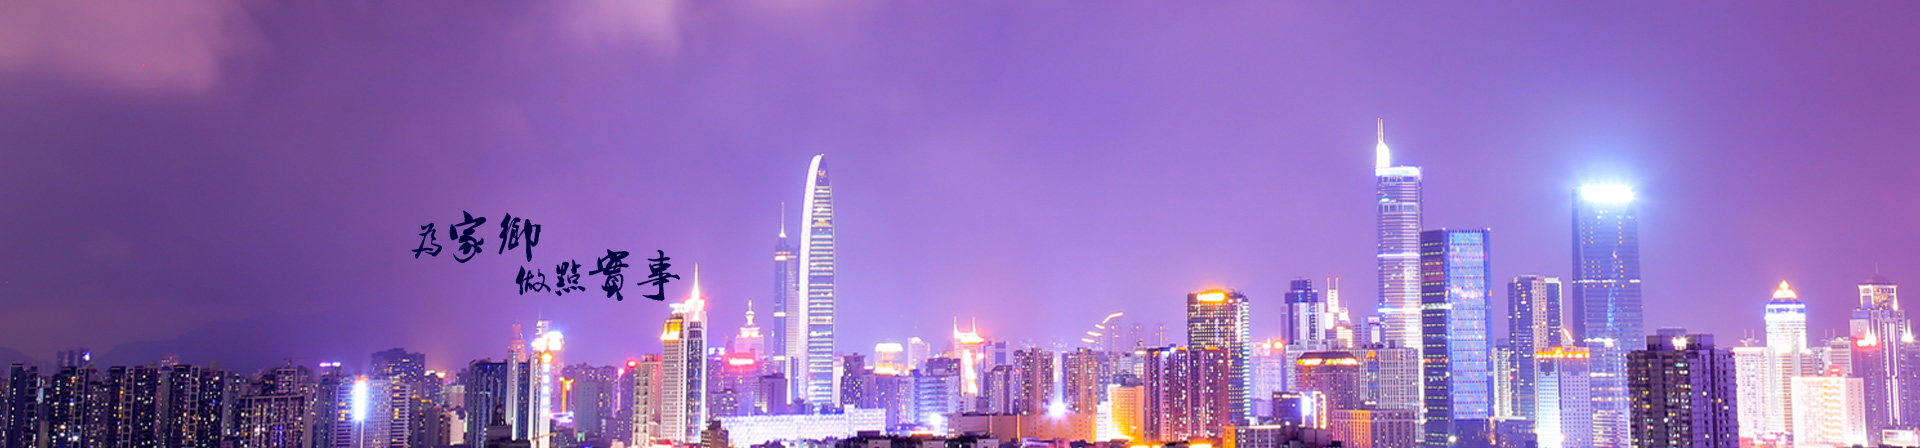
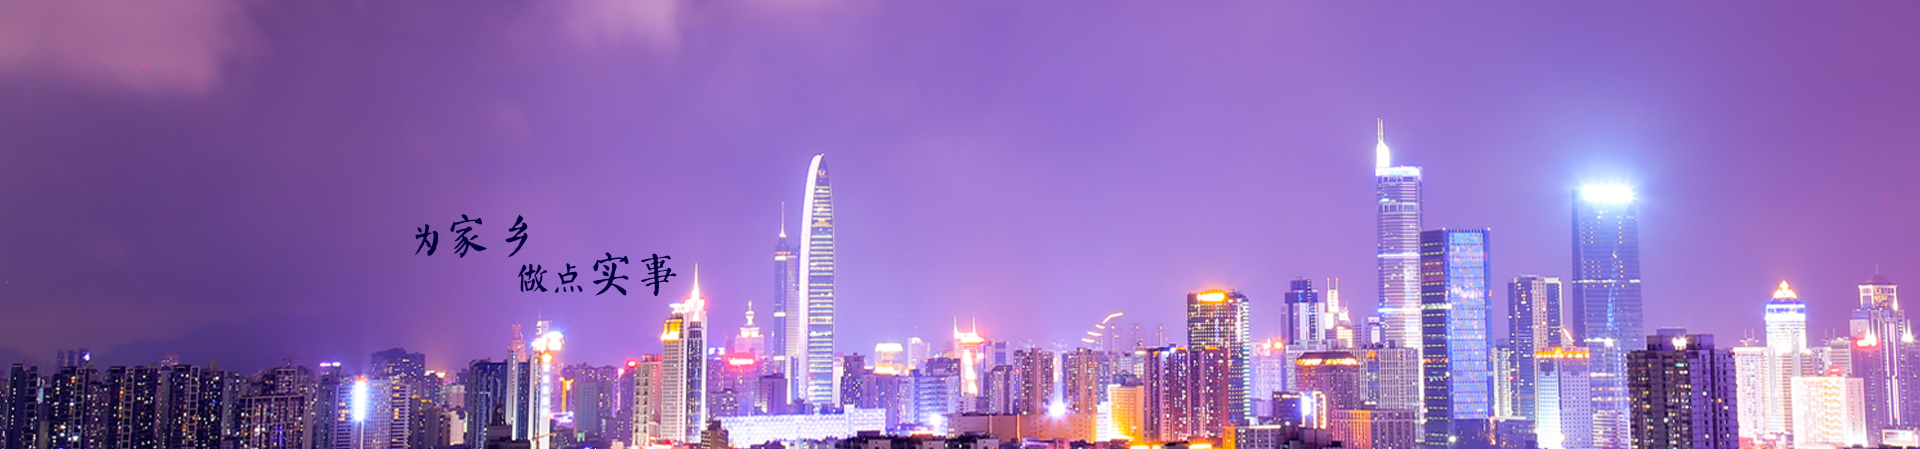
添加专题活动&修改banner字体

diff --git a/activity.html b/activity.html
@@ -1,0 +1,120 @@
+<!DOCTYPE html PUBLIC "-//W3C//DTD XHTML 1.0 Transitional//EN" "http://www.w3.org/TR/xhtml1/DTD/xhtml1-transitional.dtd">
+<html xmlns="http://www.w3.org/1999/xhtml">
+
+	<head>
+		<meta http-equiv="Content-Type" content="text/html;charset=UTF-8" />
+		<title>四会商会</title>
+		<link rel="stylesheet" href="./css/reset.css" />
+		<link rel="stylesheet" href="./css/style.css" />
+		<link rel="stylesheet" type="text/css" href="css/swiper.min.css" />
+		<script type="text/javascript" src="js/swiper.min.js"></script>
+	</head>
+
+	<body>
+		<!-- 头部开始 -->
+		<div class="head">
+			<div class="layout clearfix">
+				<h1 class="head-logo fl">
+					<a href="#">
+						<img src="images/head_logo.png" alt="" />
+					</a>
+				</h1>
+				<ul class="head-nav fr">
+					<li><a href="index.html">首&nbsp;页</a></li>
+					<li><a href="about.html">商会介绍</a></li>
+					<li><a class="active" href="activity.html">专题活动</a></li>
+					<li><a href="#">项目合作</a></li>
+					<li><a href="#">新闻动态</a></li>
+					<li><a href="#">会员风采</a></li>
+					<li><a href="#">四会新姿</a></li>
+				</ul>
+			</div>
+		</div>
+		<!-- 头部结束 -->
+
+		<!-- 焦点图开始  -->
+		<div class="banner" style="background: url(images/activity_banner.jpg) center top no-repeat;"></div>
+		<!-- 焦点图结束 -->
+		
+		<div class="layout">
+			<div class="page-warp clearfix">
+				<h2 class="m-page-title">专题活动</h2>
+				<div class="m-page-content2">
+					<div class="activity-hd">
+						<a href="#" class="clearfix">
+							<div class="title fl">
+								四会新规划<br />
+								一区两城三基地
+							</div>
+							<div class="img fl">
+								<img src="images/subject_03.jpg"/>
+							</div>
+						</a>
+					</div>
+					<ul class="activity-bd clearfix">
+						<li>
+							<a href="#">
+								<div class="img"><img src="images/subject_07.jpg"/></div>
+								<div class="title">四会柑桔玉器文化节 2016 专题</div>
+							</a>
+						</li>
+						<li>
+							<a href="#">
+								<div class="img"><img src="images/subject_07.jpg"/></div>
+								<div class="title">四会柑桔玉器文化节 2016 专题</div>
+							</a>
+						</li>
+						<li>
+							<a href="#">
+								<div class="img"><img src="images/subject_07.jpg"/></div>
+								<div class="title">四会柑桔玉器文化节 2016 专题</div>
+							</a>
+						</li>
+						<li>
+							<a href="#">
+								<div class="img"><img src="images/subject_07.jpg"/></div>
+								<div class="title">四会柑桔玉器文化节 2016 专题</div>
+							</a>
+						</li>
+						<li>
+							<a href="#">
+								<div class="img"><img src="images/subject_07.jpg"/></div>
+								<div class="title">四会柑桔玉器文化节 2016 专题</div>
+							</a>
+						</li>
+					</ul>
+				</div>
+			</div>
+		</div>
+
+		<!-- 底部开始 -->
+		<div class="foot">
+			<div class="layout clearfix">
+				<div class="foot-nav fl">
+					<a href="#">首&nbsp;页</a>
+					<span>|</span>
+					<a href="#">商会介绍 </a>
+					<span>|</span>
+					<a href="#">专题活动</a>
+					<span>|</span>
+					<a href="#">项目合作</a>
+					<span>|</span>
+					<a href="#">新闻动态</a>
+					<span>|</span>
+					<a href="#">会员风采</a>
+					<span>|</span>
+					<a href="#">四会新姿</a>
+				</div>
+				<div class="foot-info fr">
+					<p>
+						广东省四会商会 版权所有 All Rights Reserved<br/>
+						粤ICP备666666666号<br/>
+						联系电话：+86-0755-88888888
+					</p>
+				</div>
+			</div>
+		</div>
+		<!-- 底部结束 -->
+	</body>
+
+</html>

diff --git a/css/style.css b/css/style.css
@@ -95,3 +95,13 @@ body{font-family: "microsoft yahei"; font-size:14px; background:#efefef; color:#
 .m-page-nav li a.active{color:#01003d;}
 .m-page-nav li a.active:before{width:0; height:0; content: " "; display: block; border: 4px solid transparent; border-left: 5px solid #01003d; position: absolute; top: 6px;}
 .m-page-content1{width:832px; min-height:500px; border-left:1px solid #eee; padding:40px;}
+.m-page-content2{padding:25px 43px 40px;}
+
+
+/*活动专题*/
+.activity-hd .title{width:280px; height:187px; background:#5eb5bd; color:#fff; font-size:30px; text-align: center; line-height: 50px; padding-top:90px;}
+.activity-bd{margin-top:37px; width:1150px;}
+.activity-bd li{ margin:0 23px 23px 0; background:#e7e7e7; float:left;}
+.activity-bd li:hover{background:#f4dfc2;}
+.activity-bd .img{padding:7px; padding-bottom: 0;}
+.activity-bd .title{height:42px; line-height: 42px; color:#000; text-align: center;}

diff --git a/about.html b/about.html
@@ -22,7 +22,7 @@
 				<ul class="head-nav fr">
 					<li><a href="index.html">首&nbsp;页</a></li>
 					<li><a class="active" href="about.html">商会介绍</a></li>
-					<li><a href="#">专题活动</a></li>
+					<li><a href="activity.html">专题活动</a></li>
 					<li><a href="#">项目合作</a></li>
 					<li><a href="#">新闻动态</a></li>
 					<li><a href="#">会员风采</a></li>

diff --git a/index.html b/index.html
@@ -22,7 +22,7 @@
 				<ul class="head-nav fr">
 					<li><a class="active" href="index.html">首&nbsp;页</a></li>
 					<li><a href="about.html">商会介绍</a></li>
-					<li><a href="#">专题活动</a></li>
+					<li><a href="activity.html">专题活动</a></li>
 					<li><a href="#">项目合作</a></li>
 					<li><a href="#">新闻动态</a></li>
 					<li><a href="#">会员风采</a></li>
